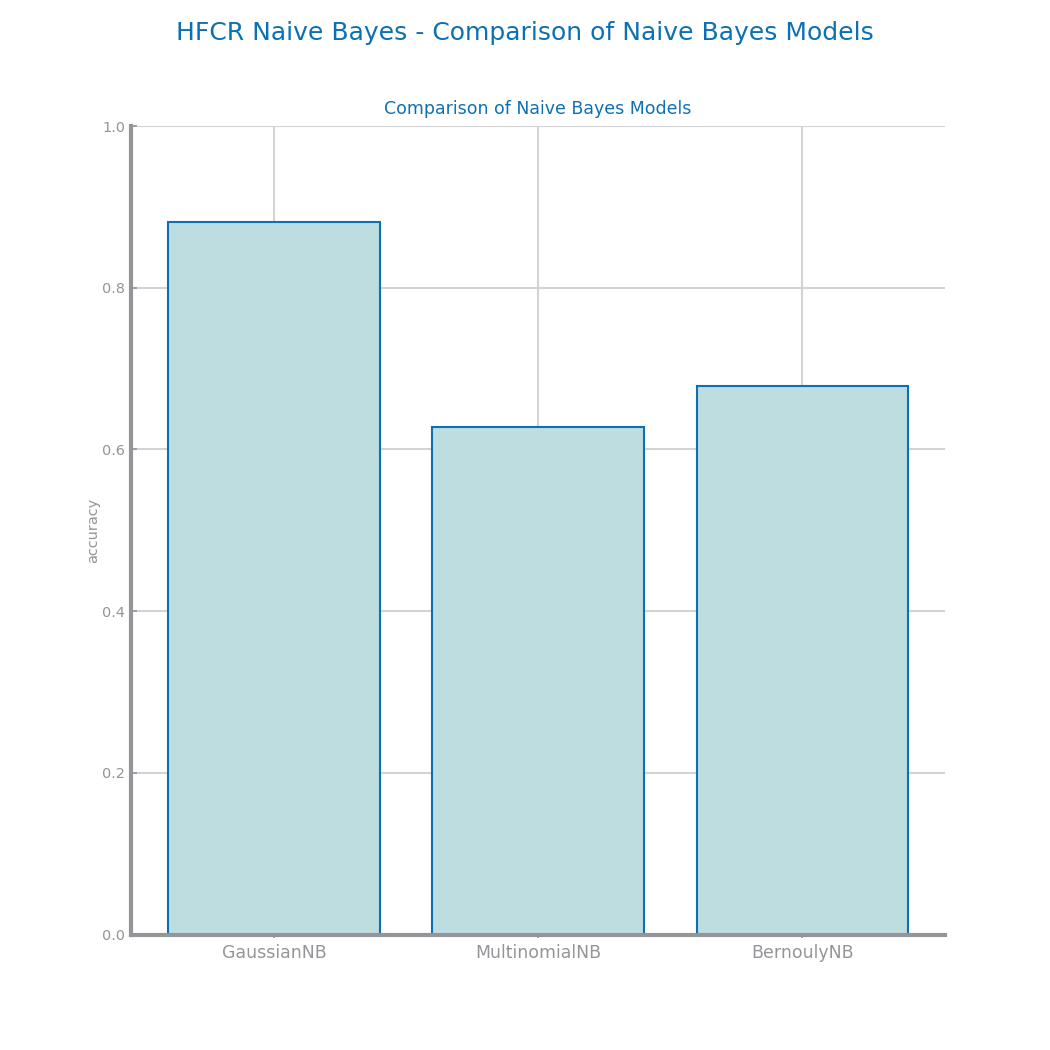
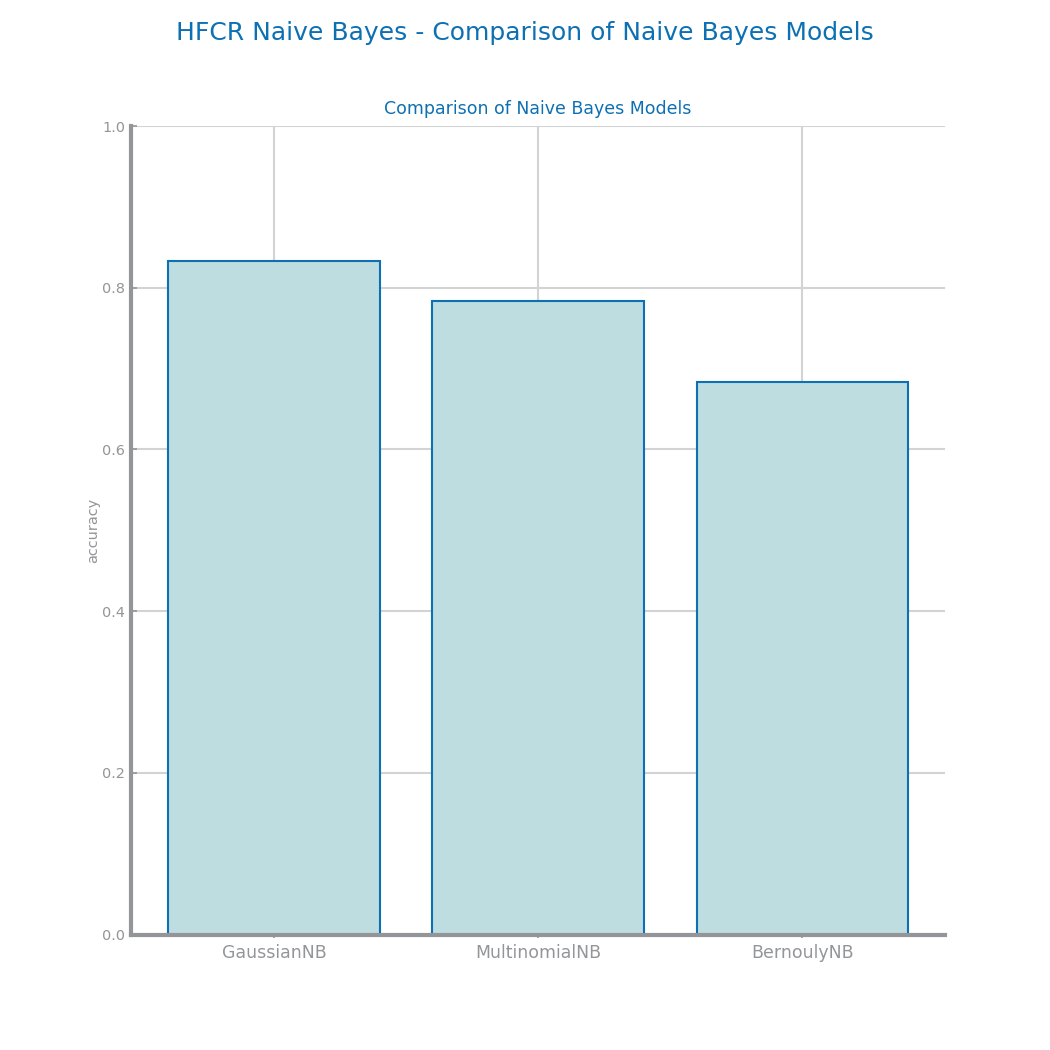
naive bayes fix

Changed region(s): [[0.3962, 0.2743, 0.64, 0.4267], [0.1524, 0.2133, 0.3657, 0.2743]]

diff --git a/Labs/Lab03/HFCR_naivebayes.py b/Labs/Lab03/HFCR_naivebayes.py
@@ -83,7 +83,7 @@ for clf in estimators:
 		if iteration_accuracy > best_iteration_accuracy:
 			best_iteration_accuracy = iteration_accuracy
 
-	yvalues.append(iteration_accuracy)
+	yvalues.append(best_iteration_accuracy)
 
 plt.figure(figsize=(7,7))
 ds.bar_chart(xvalues, yvalues, title='Comparison of Naive Bayes Models', ylabel='accuracy', percentage=True)
